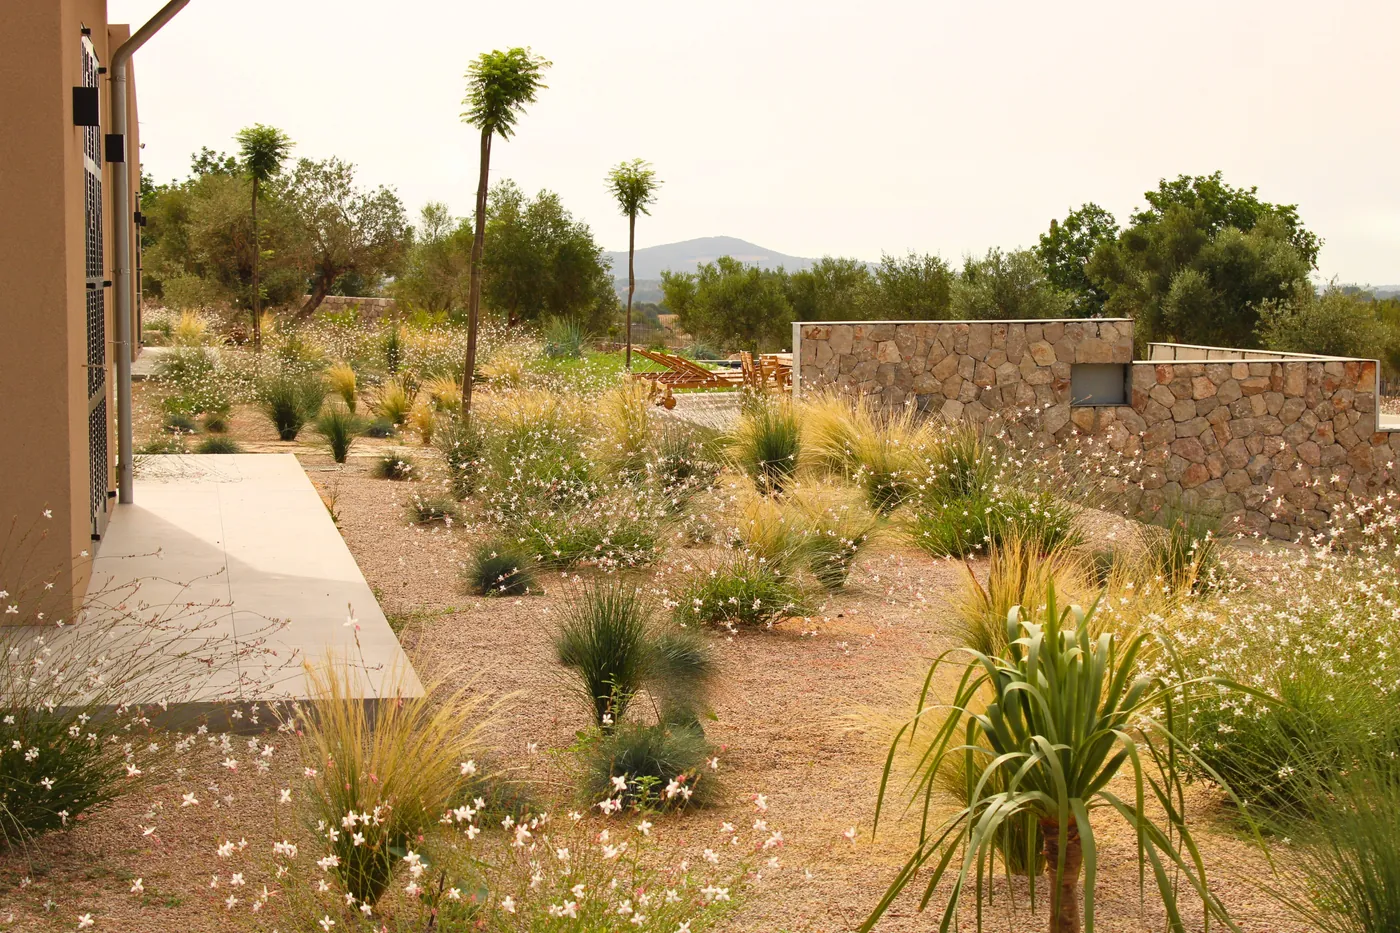
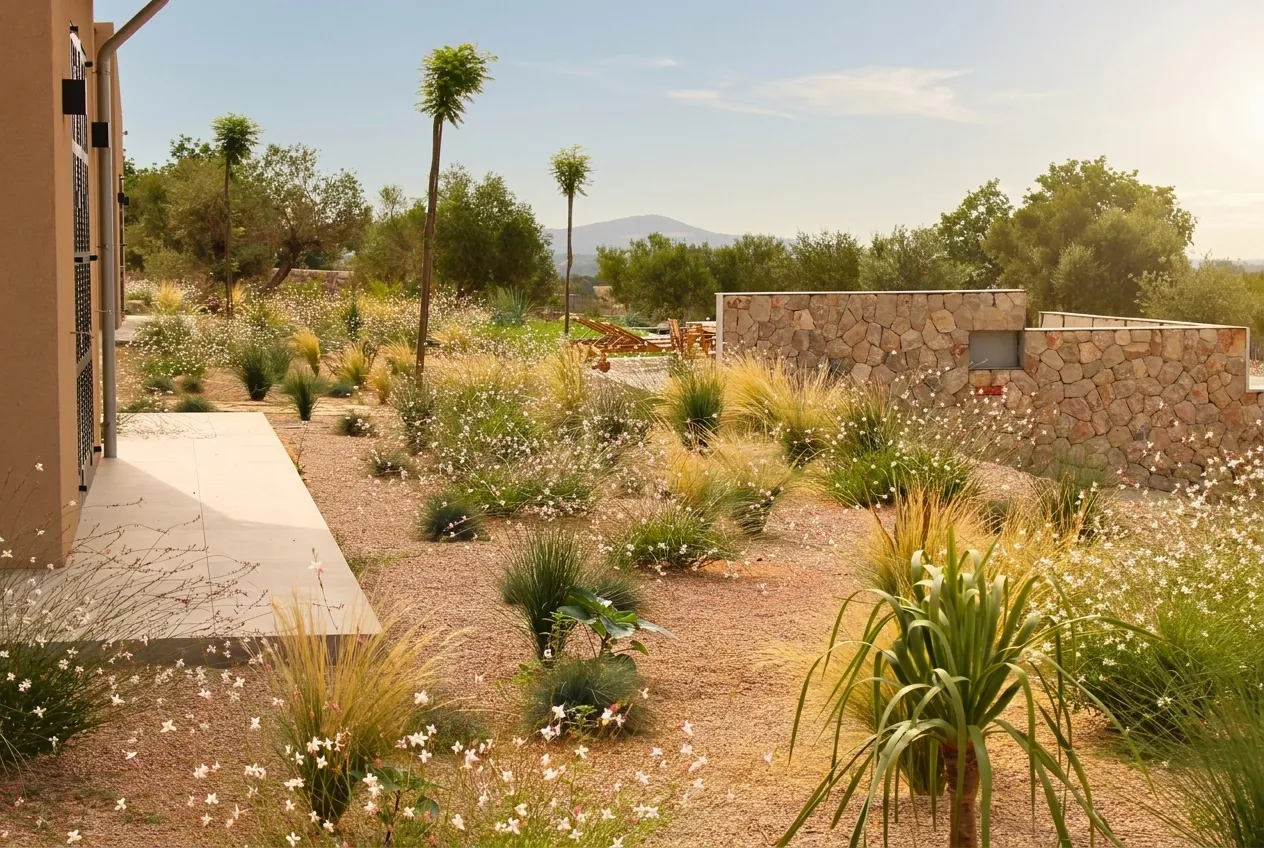
feat: SEO optimizations, new blog articles, and Sant Llorenç images updates

diff --git a/src/data/projects.ts b/src/data/projects.ts
@@ -542,11 +542,13 @@ export const projects: Project[] = [
     year: "2024",
     architect: null,
     video: null,
-    cover: "/portfolio/sant-llorenc/images/garden-design-mallorca-sant-llorenc-sestepa.webp",
-    ogImage: "/portfolio/sant-llorenc/images/garden-design-mallorca-sant-llorenc-sestepa.webp",
+    cover: "/portfolio/sant-llorenc/images/garden-design-mallorca-sestepa-landscape-design-sant-llorenc-18.webp",
+    ogImage: "/portfolio/sant-llorenc/images/garden-design-mallorca-sestepa-landscape-design-sant-llorenc-18.webp",
     images: [
-      "garden-design-mallorca-sestepa-landscape-design-sant-llorenc-01.webp",
-      "garden-design-mallorca-sestepa-landscape-design-sant-llorenc-02.webp",
+      "garden-design-mallorca-sestepa-landscape-design-sant-llorenc-15.webp",
+      "garden-design-mallorca-sestepa-landscape-design-sant-llorenc-13.webp",
+      "garden-design-mallorca-sant-llorenc-sestepa.webp",
+      "garden-design-mallorca-sestepa-landscape-design-sant-llorenc-23.webp",
       "garden-design-mallorca-sestepa-landscape-design-sant-llorenc-03.webp",
       "garden-design-mallorca-sestepa-landscape-design-sant-llorenc-04.webp",
       "garden-design-mallorca-sestepa-landscape-design-sant-llorenc-05.webp",
@@ -554,18 +556,19 @@ export const projects: Project[] = [
       "garden-design-mallorca-sestepa-landscape-design-sant-llorenc-07.webp",
       "garden-design-mallorca-sestepa-landscape-design-sant-llorenc-08.webp",
       "garden-design-mallorca-sestepa-landscape-design-sant-llorenc-09.webp",
-      "garden-design-mallorca-sestepa-landscape-design-sant-llorenc-10.webp",
       "garden-design-mallorca-sestepa-landscape-design-sant-llorenc-11.webp",
       "garden-design-mallorca-sestepa-landscape-design-sant-llorenc-12.webp",
-      "garden-design-mallorca-sestepa-landscape-design-sant-llorenc-13.webp",
+      "garden-design-mallorca-sestepa-landscape-design-sant-llorenc-02.webp",
       "garden-design-mallorca-sestepa-landscape-design-sant-llorenc-14.webp",
-      "garden-design-mallorca-sestepa-landscape-design-sant-llorenc-15.webp",
       "garden-design-mallorca-sestepa-landscape-design-sant-llorenc-16.webp",
       "garden-design-mallorca-sestepa-landscape-design-sant-llorenc-17.webp",
       "garden-design-mallorca-sestepa-landscape-design-sant-llorenc-18.webp",
+      "garden-design-mallorca-sestepa-landscape-design-sant-llorenc-01.webp",
       "garden-design-mallorca-sestepa-landscape-design-sant-llorenc-19.webp",
+      "garden-design-mallorca-sestepa-landscape-design-sant-llorenc-19-2.webp",
       "garden-design-mallorca-sestepa-landscape-design-sant-llorenc-20.webp",
-      "garden-design-mallorca-sestepa-landscape-design-sant-llorenc-21.webp"
+      "garden-design-mallorca-sestepa-landscape-design-sant-llorenc-21.webp",
+      "garden-design-mallorca-sestepa-landscape-design-sant-llorenc-22.webp"
     ],
     en: {
       title: "Sant Llorenç",

diff --git a/src/data/translations.ts b/src/data/translations.ts
@@ -14,6 +14,7 @@ export const ui = {
     'nav.portfolio': 'Gardens',
     'nav.gallery': 'Gallery',
     'nav.blog': 'Blog',
+    'nav.faq': 'FAQ',
     'nav.press': 'Press',
     'nav.contact': 'Contact',
     'hero.subtitle': 'Landscape Design & Garden Design — Mallorca',
@@ -72,6 +73,7 @@ export const ui = {
     'nav.portfolio': 'Jardines',
     'nav.gallery': 'Galería',
     'nav.blog': 'Blog',
+    'nav.faq': 'Preguntas Frecuentes',
     'nav.press': 'Prensa',
     'nav.contact': 'Contacto',
     'hero.subtitle': 'Estudio de Diseño de Jardines y Paisajismo en Mallorca',
@@ -130,6 +132,7 @@ export const ui = {
     'nav.portfolio': 'Gärten',
     'nav.gallery': 'Galerie',
     'nav.blog': 'Blog',
+    'nav.faq': 'Häufig Gestellte Fragen',
     'nav.press': 'Presse',
     'nav.contact': 'Kontakt',
     'hero.subtitle': 'Landschafts- und Gartengestaltungsstudio auf Mallorca',

diff --git a/src/data/site-urls.ts b/src/data/site-urls.ts
@@ -1,4 +1,4 @@
-import type { SiteLocale } from '../lib/locale';
+import type { SiteLocale } from '../lib/locale';
 
 /** Logical page keys â€” not URL paths. */
 export type SitePageId =
@@ -12,7 +12,8 @@ export type SitePageId =
   | 'legal-notice'
   | 'privacy-policy'
   | 'cookies'
-  | 'blog';
+  | 'blog'
+  | 'faq';
 
 /** Canonical paths matching design.sestepa.com (WordPress + WPML). */
 export const SITE_PAGES: Record<SitePageId, Record<SiteLocale, string>> = {
@@ -39,6 +40,7 @@ export const SITE_PAGES: Record<SitePageId, Record<SiteLocale, string>> = {
   },
   cookies: { en: '/cookies/', es: '/es/cookies/', de: '/de/cookies/' },
   blog: { en: '/blog/', es: '/es/blog/', de: '/de/blog/' },
+  faq: { en: '/faq/', es: '/faq/', de: '/faq/' },
 };
 
 /**

diff --git a/src/content/blog/the-ultimate-guide-to-high-end-garden-design-in-mallorca.md b/src/content/blog/the-ultimate-guide-to-high-end-garden-design-in-mallorca.md
@@ -1,0 +1,47 @@
+---
+title: "The Ultimate Guide to High-End Garden Design and Landscaping in Mallorca"
+description: "A comprehensive guide to planning, designing, and constructing luxury, sustainable gardens on Mallorca's unique terrain."
+pubDate: 2026-08-05
+lang: en
+draft: false
+noindex: false
+---
+
+# The Ultimate Guide to High-End Garden Design and Landscaping in Mallorca
+
+For international owners of private estates, villas, and holiday fincas in Mallorca, the outdoor space is not merely an addition to the house—it is the grandest room of the property. Designing a garden in the Balearic Islands requires a delicate balance between high-end architectural aesthetics, local craftsmanship, and the botanical constraints of the dry Mediterranean climate.
+
+This guide outlines the essential steps and technical considerations for planning and executing a premium landscape design project that matures gracefully and enhances the long-term value of your property.
+
+![High-end landscape design in Campos, Mallorca](/images/journal/luxury-landscape-architect-mallorca-campos.jpg)
+
+## 1. Site Analysis: Respecting the Microclimates
+
+Mallorca’s topography is incredibly diverse. A property nestled in the hills of Andratx face different conditions compared to an agricultural estate in Campos or a seaside villa in Alcúdia. A professional landscape design must begin with a rigorous analysis of the microclimate:
+
+*   **Wind and Salinity:** Coastal properties require salt-tolerant species like *Agave attenuata*, *Chamaerops humilis* (Mallorca's native fan palm), and *Pistacia lentiscus* to withstand maritime winds.
+*   **Sun Exposure and Shade:** Understanding the sun’s path is vital for locating outdoor dining spaces, pergolas, and structural planting blocks that shield key residential areas from intense afternoon heat.
+*   **Geological Structure:** Soil testing determines drainage parameters. The clay-heavy soils of central Mallorca retain moisture longer but compact easily, whereas the stony calcareous slopes of Calvià drain instantly and require careful organic conditioning.
+
+## 2. Hardscaping and Local Craftsmanship
+
+A high-end garden must respect the architectural vernacular of Mallorca. This is achieved by integrating natural materials and utilizing traditional construction techniques:
+
+*   **Pedra en Sec (Dry-Stone Walls):** This UNESCO-recognized local craft is the backbone of Mallorcan terracing. Constructed without mortar, dry-stone walls provide organic texture, prevent soil erosion on slopes, and offer thermal mass that benefits the surrounding plantings.
+*   **Local Limestone and Gravel:** Utilizing native limestone and gravel stabilizers creates clean, elegant pathways that integrate visually with the terrain, facilitating circulation and reducing the heat island effect common with poured concrete.
+
+![Modern landscape architect garden design in Crestatx, Sa Pobla](/images/journal/high-end-landscape-design-mallorca-crestatx.jpg)
+
+## 3. Water Wisely: Engineering Sustainable Systems
+
+Given the scarcity of water on the island, a sustainable landscape design is no longer optional—it is a technical necessity. Modern high-end gardens utilize engineering to optimize water resource management:
+
+*   **Zoned Drip Irrigation:** Splitting the irrigation network into distinct zones based on the hydric needs of the plants prevents over-watering and minimizes evaporation.
+*   **Rainwater and Graywater Reuse:** Integrating sub-surface cisterns to capture winter rainfall and recycling filtered domestic graywater provides an independent, ecological source of irrigation during dry summer months.
+*   **Xeriscape Design:** Utilizing volcanic gravel layers and river stones to cover the soil helps preserve moisture, dramatically reducing the necessity for supplemental irrigation.
+
+## 4. Generational Expertise and Biological Success
+
+The transition from a conceptual drawing to a thriving, mature garden depends entirely on botanical experience. pedro Campaner, head of S'Estepa Design, brings 30 years of agricultural and horticultural expertise to the team. This generational knowledge ensures that plants are not only selected for their visual form, but are biologically suited to the specific terrain and soil chemistry of Mallorca.
+
+By choosing species that are native to the Balearic Islands and adapting traditional techniques to contemporary architecture, S'Estepa Design creates gardens that are resilient, sustainable, and visually exceptional.

diff --git a/src/content/blog/the-art-of-mediterranean-gardens-ecology-and-luxury-in-mallorca.md b/src/content/blog/the-art-of-mediterranean-gardens-ecology-and-luxury-in-mallorca.md
@@ -1,0 +1,42 @@
+---
+title: "The Art of Mediterranean Gardens: Blending Luxury with Ecological Resilience"
+description: "S'Estepa Design's technical insight on designing high-end, drought-resistant gardens that thrive on Mallorca's unique terroir."
+pubDate: 2026-08-05
+lang: en
+draft: false
+noindex: false
+---
+
+# The Art of Mediterranean Gardens: Blending Luxury with Ecological Resilience
+
+In the exclusive residential enclaves of Mallorca, the definition of luxury has undergone a significant architectural shift. High-end property owners no longer demand resource-heavy, manicured northern-European lawns that fight the dry heat. Today, the most exceptional estates celebrate the natural landscape of the Balearic Islands—integrating native flora, local limestone, and water-wise planting schemes to create gardens that feel organically unified with the Mediterranean landscape.
+
+At S'Estepa Design, our approach is defined by thirty years of working directly with the unique soils, winds, and microclimates of Mallorca. Led by founder and agricultural technologist Pedro Campaner, our design philosophy proves that ecological resilience and high-end aesthetics are not mutually exclusive.
+
+![Mediterranean fire pit garden design in Llubí, Mallorca](/images/journal/best-garden-design-mallorca-llubi-firepit.webp)
+
+## Designing for the Terroir: Soil, Sun, and Stone
+
+Successful landscape design in Mallorca begins with a deep, scientific understanding of the ground beneath. The island's geological canvas ranges from the deep, iron-rich clays (*Call vermell*) of the plains to the alkaline, calcareous rocky limestone terrains of the Serra de Tramuntana.
+
+Traditional, non-native plants fail in these conditions because they cannot handle the high pH of the limestone soils and the intense summer drought. In contrast, native species have spent millennia adapting to these parameters. When we design a garden, we anchor the structure with key botanical species that thrive naturally in poor soils:
+
+*   **Centenary Olive Trees (*Olea europaea*):** These ancient structures act as visual anchors, their canopies filtering the sunlight and protecting the volatile oils of the understory herbs.
+*   **Mastic Shrub (*Pistacia lentiscus*):** Known locally as *Mata*, this evergreen brings a resinous, balsamic aroma and provides year-round density. It is highly resistant to coastal sea spray and requires virtually no irrigation once established.
+*   **Aromatic Understory:** Lavenders (*Lavandula dentata*), wild rosemary (*Rosmarinus officinalis*), and sage (*Salvia*) create a low-maintenance, aromatic carpet that stabilizes the soil and releases essential oils under the summer heat.
+
+## The Dry Garden: A New Aesthetic of Water Efficiency
+
+Water scarcity is one of the most critical factors in modern Mallorcan landscaping. A luxury dry garden (*Jardín Seco*) is designed to minimize irrigation by relying on architectural earthworks, local mineral layers, and drought-tolerant planting palettes.
+
+Replacing water-thirsty grass lawns with layers of local river gravel, crushed limestone, and volcanic rocks not only decreases water use but also adds a sophisticated textural element to the property. 
+
+![Sustainable landscape design with mineral layers in Crestatx, Mallorca](/images/journal/high-end-landscape-design-mallorca-crestatx.jpg)
+
+In our project in Crestatx, we completely replaced the traditional lawn with layers of mini river stone and organic islands of native shrubs, ornamental grasses (*Stipa tenuissima*), and structural palms (*Chamaerops humilis*). This transformation reduces water requirements by over 70% while creating a dynamic landscape that changes gracefully with the seasons.
+
+## Generational Knowledge: The S'Estepa Advantage
+
+Designing a landscape that matures beautifully over decades requires more than academic design principles; it requires empirical, local experience. Pedro Campaner’s generational understanding of Mallorcan agriculture ensures that every botanical species is placed in its optimal microclimate, taking into account the coastal salinity, mountain winds, and dry soil structures.
+
+By working with the natural patterns of the island, we construct living sanctuaries that remain vibrant, sustainable, and luxurious for generations to come.

diff --git a/src/content/blog/the-wild-luxury-how-micro-rewilding-is-reshaping-mallorcas-landscapes.md b/src/content/blog/the-wild-luxury-how-micro-rewilding-is-reshaping-mallorcas-landscapes.md
@@ -13,6 +13,8 @@ Wild luxury: A design philosophy that seamlessly integrates the island's wild be
 
 We believe the answer lies in a radical shift in perspective. True exclusivity is no longer about imposing an alien order upon the land; it is about curating an intimate relationship with the indigenous spirit of Mallorca. This is the essence of micro-rewilding—a design philosophy that invites the island’s untamed beauty into the heart of high-end architecture.
 
+![Wild luxury and traditional dry-stone design in Campanet, Mallorca](/images/journal/garden-design-mallorca-campanet.jpg)
+
 ## The Architecture of the &#8220;Uncontrolled&#8221;
 
 Micro-rewilding is not abandonment. It is not simply ceasing to mow or weed. Rather, it is the deliberate orchestration of &#8220;wild zones&#8221; within a structured landscape plan. It is a curiosity-driven approach where we ask: What wants to grow here?
@@ -26,6 +28,8 @@ Why do we encourage this? Because nature is the ultimate designer. When we prepa
 Soil Memory: We work extensively with Mallorca’s Call vermell (red clay soils). Instead of replacing it with imported topsoil, we amend it minimally to support the dormant seed banks already present in the earth.
 
 Wind Vectors: We analyze the prevailing winds (the Tramuntana or the Llevant) to predict how seeds will travel across the property, positioning our rewilding zones to catch specific endemic flora.
+
+![Curated wild garden with fire pit in Llubí, Mallorca](/images/journal/best-garden-design-mallorca-llubi-firepit.webp)
 
 ## Beyond the Static Garden
 

diff --git a/src/content/blog/regenerative-landscapes-despite-mallorcas-water-realities.md b/src/content/blog/regenerative-landscapes-despite-mallorcas-water-realities.md
@@ -19,6 +19,8 @@ There is a misconception that a dry garden means gravel and cactus. This could n
 
 Our approach focuses on hydro-zoning—grouping plants with similar water needs to eliminate waste—and utilizing species that have evolved over millennia to thrive in our specific microclimates. By pivoting from water-dependent aesthetics to drought-tolerant architectural forms, we ensure that your estate remains vibrant even in the height of August, while others fade.
 
+![Regenerative dry garden design with mineral layers in Crestatx, Mallorca](/images/journal/high-end-landscape-design-mallorca-crestatx.jpg)
+
 ## Mastering the Mallorcan Terroir: Soil and Wind
 
 Regenerative landscaping begins beneath the surface. A garden cannot sustain itself if the foundation is weak.
@@ -30,6 +32,8 @@ Many estates in the central and southern plains of Mallorca sit atop Call Vermel
 ### Designing for the Tramuntana
 
 Water is not the only element we curate; we also design for the wind. The strong Tramuntana winds can dehydrate a garden faster than the sun. We utilize structural planting—using dense, wind-tolerant hedging like *Pistacia lentiscus* (Mastic) and *Cupressus sempervirens*—to create microclimates. These &#8216;green windbreaks' reduce evaporation rates for the more delicate flora within the inner sanctuary, protecting the garden's lush aesthetic without artificial intervention.
+
+![Lush regenerative landscape design in Campos, Mallorca](/images/journal/luxury-landscape-architect-mallorca-campos.jpg)
 
 ## The Palette of Resilience: Native Flora
 
